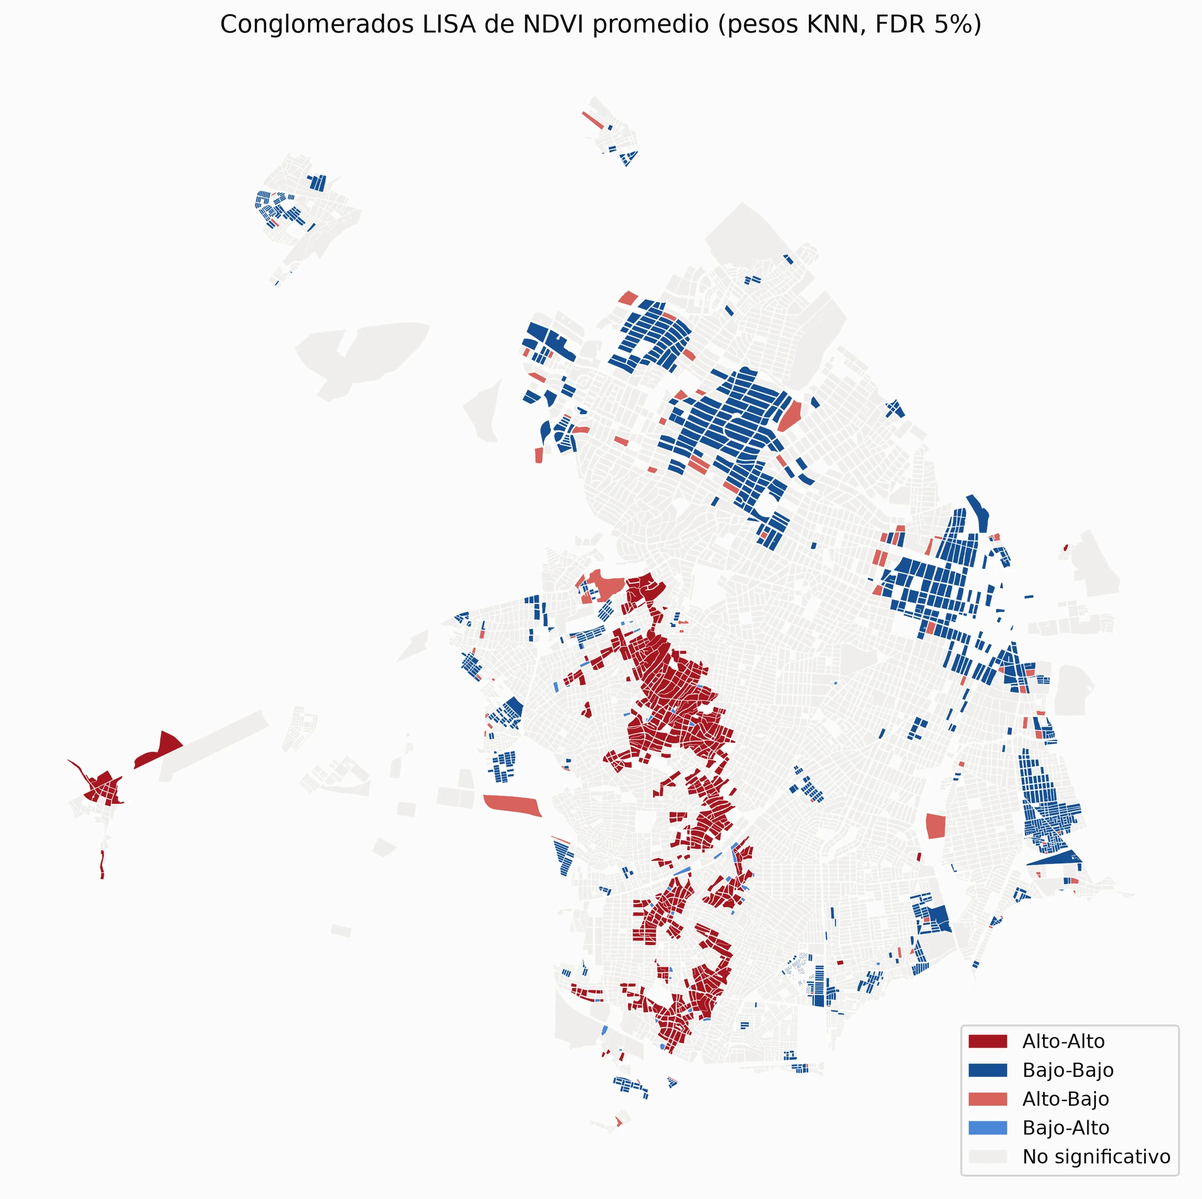
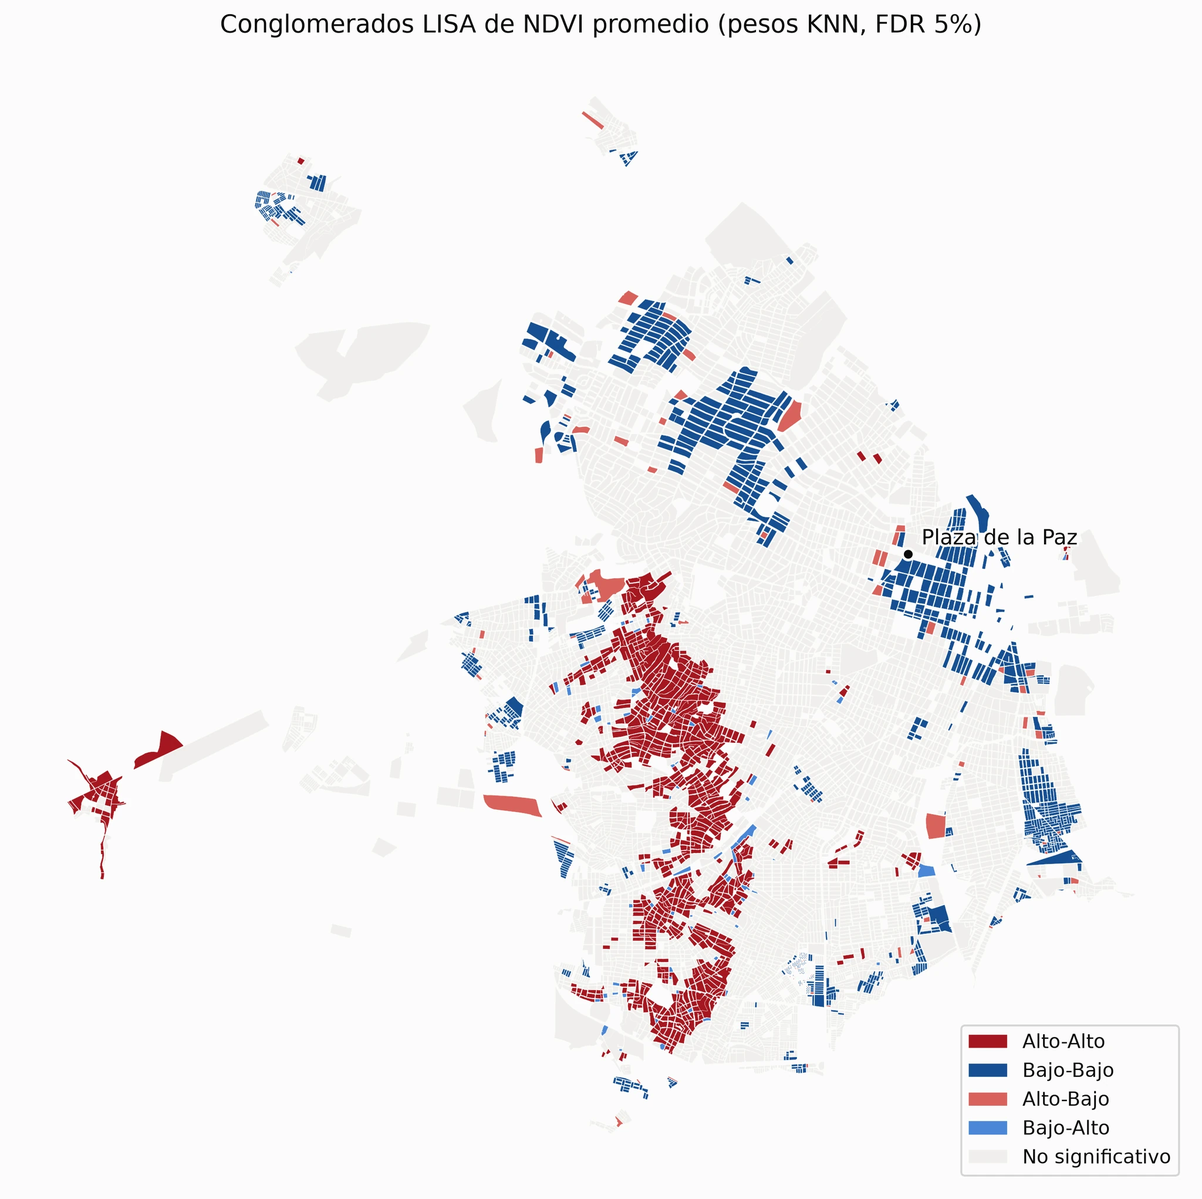
blog: barranquilla verde v2

diff --git a/content/blog/barranquilla-verde-desigualdad-2026.md b/content/blog/barranquilla-verde-desigualdad-2026.md
@@ -1,12 +1,12 @@
 ---
 title: "Barranquilla: el verde que ve el satélite no es el verde que se camina"
 date: 2026-10-06
-excerpt: "Medí la vegetación de las 7.761 manzanas de Barranquilla y la cruzé con el estrato socioeconómico. El satélite ve más verde donde vive la gente con menos recursos. Esa misma gente tiene menos verde a la mano. Este texto explica por qué las dos frases son ciertas a la vez."
+excerpt: "Medí la vegetación de las 7.761 manzanas de Barranquilla y la crucé con el estrato socioeconómico. El satélite ve más verde donde vive la gente con menos recursos. Esa misma gente tiene menos verde a la mano. Este texto explica por qué las dos frases son ciertas a la vez."
 tags: ["Barranquilla", "análisis espacial", "verde urbano", "datos abiertos"]
 author: "William Salas"
 ---
 
-Barranquilla es una ciudad verde. También es una ciudad desigual. Este trabajo mide las dos cosas al mismo tiempo, manzana por manzana, con imágenes satelitales y con las capas que publica la propia ciudad. El resultado es una contradicción. El satélite ve más verde donde vive la gente con menos recursos, pero esa gente tiene menos verde a la mano.
+Barranquilla es una ciudad verde y también es una ciudad desigual. Este trabajo mide las dos cosas a la vez, manzana por manzana, con imágenes de satélite y con los datos que publica la propia ciudad. Y encuentra una contradicción: el satélite ve más verde donde vive la gente con menos recursos, pero esa misma gente tiene menos verde a la mano.
 
 Las dos frases son ciertas. La diferencia está en qué cuenta como verde.
 
@@ -16,71 +16,73 @@ Las dos frases son ciertas. La diferencia está en qué cuenta como verde.
 
 ![Estrato socioeconómico y NDVI promedio por manzana, Barranquilla](/images/blog/barranquilla-verde-desigualdad-2026/01_estrato_y_ndvi.webp)
 
-El mapa de la izquierda ordena las 7.761 manzanas de la ciudad por estrato. El azul claro es el estrato 1. El azul oscuro es el estrato 6. El estrato 1 ocupa casi todo el sur y el occidente: son 3.480 manzanas y 476.550 personas, cerca del 43% de la población de la ciudad.
+El mapa de la izquierda ordena las 7.761 manzanas de la ciudad por estrato. El azul claro es el estrato 1 y el azul oscuro es el estrato 6. El estrato 1 ocupa casi todo el sur y el occidente: son 3.480 manzanas y 476.550 personas, cerca del 43% de la ciudad. El punto negro marca la Plaza de la Paz, para que pueda ubicarse.
 
-El mapa de la derecha mide la vegetación. El verde oscuro significa más vegetación.
+El mapa de la derecha mide la vegetación. Más verde oscuro significa más vegetación.
 
 Los dos mapas no coinciden. La manzana promedio del estrato 1 tiene un NDVI de 0.27. La del estrato 6 tiene 0.18. Cuanto más pobre la manzana, más verde la ve el satélite.
 
-Esa relación es débil, y no es nueva. Nuñez, Hoyos y Arellana (2023) compararon el NDVI entre grupos vulnerables y no vulnerables en Barranquilla, con otro sensor y la misma manzana censal. Encontraron diferencias marginales. Este trabajo llega al mismo punto y lo continúa.
+Esa relación es débil, y no es nueva. Nuñez, Hoyos y Arellana (2023) compararon el verde entre grupos vulnerables y no vulnerables en Barranquilla, con otro satélite y la misma manzana del censo. Encontraron diferencias mínimas. Este trabajo llega al mismo punto y sigue desde ahí.
 
-> **Fuente y método.** La vegetación sale de Sentinel-2 (colección `S2_SR_HARMONIZED`), en composición de mediana sobre las estaciones secas de diciembre a marzo de 2023 y 2024, a 10 metros de resolución. El NDVI es `(B8 - B4) / (B8 + B4)`; los píxeles con nube, sombra o agua se enmascaran con la banda SCL. El estrato por manzana es la capa oficial de estratificación (2018). Todo se mide en el sistema de coordenadas nacional EPSG:9377. De 7.799 manzanas se analizan 7.761; 38 se excluyen por agua o por falta de dato. La relación entre estrato y NDVI por manzana tiene un coeficiente de Spearman de −0.183 (p = 2.1 × 10⁻⁵⁹).
+> **Fuente y método.** El verde sale de imágenes Sentinel-2 de las estaciones secas de 2023 y 2024, a 10 metros por píxel. El NDVI es una medida estándar de vegetación: va de 0 a 1 y sube con la cantidad de plantas verdes. El estrato por manzana es la capa oficial de 2018. De 7.799 manzanas se analizan 7.761; 38 quedan fuera por agua o por falta de dato.
 
-## Dónde se concentra el verde?
+## ¿Dónde se concentra el verde?
 
 ![Conglomerados LISA de NDVI promedio](/images/blog/barranquilla-verde-desigualdad-2026/02_conglomerados_lisa.webp)
 
-El mapa anterior muestra un promedio. No muestra si el patrón es real o si es casualidad. Un análisis de autocorrelación espacial responde esa pregunta: busca manzanas que se parecen a sus vecinas.
+Un promedio no dice si el patrón es real o es casualidad. Este segundo mapa busca manzanas que se parecen a sus vecinas, y con eso responde la pregunta.
 
-El resultado es claro. Hay un núcleo rojo y continuo en el centro-sur de la ciudad. Son 700 manzanas con vegetación alta rodeadas de manzanas igual de verdes. El estrato promedio de ese núcleo es 1.02. Hay además 959 manzanas azules con vegetación baja, también agrupadas. Su estrato promedio es 2.09.
+El resultado es claro. Hay un núcleo rojo y continuo en el centro-sur: 700 manzanas verdes rodeadas de manzanas igual de verdes. El estrato promedio de ese núcleo es 1.02. También hay 959 manzanas azules de poca vegetación, igual de agrupadas, con estrato promedio 2.09.
 
 El verde alto se agrupa en los barrios más pobres. El verde bajo también. La ciudad no se parte en dos mitades limpias.
 
-> **Fuente y método.** Índice local de Moran (LISA) sobre el NDVI promedio por manzana, con 999 permutaciones. La contigüidad se calcula con 8 vecinos más cercanos y no por fronteras compartidas: las manzanas están separadas por el eje de la vía, así que el 97% no comparte borde con ninguna otra. Los valores p se corrigen por FDR al 5%. Alto-Alto significa una manzana verde entre vecinas verdes; Bajo-Bajo, lo contrario. El cruce completo de conglomerado contra estrato está en `lisa_cluster_by_stratum.csv`.
+> **Fuente y método.** Es un índice de Moran local (LISA): mide si una manzana se parece a las que la rodean, con 999 simulaciones para descartar la casualidad. Rojo = verde alto entre vecinos verdes; azul = lo contrario. La tabla completa por estrato está en `lisa_cluster_by_stratum.csv`.
 
-## Baldíos o parques?
+## ¿Baldíos o parques?
 
 ![Suelo vegetado sin construir, por píxel de 10 m](/images/blog/barranquilla-verde-desigualdad-2026/03_verde_baldio.webp)
 
-Un píxel verde no dice quién puede usar ese verde. El satélite mide vegetación. No distingue un parque de un lote vacío con maleza.
+Un píxel verde no dice quién puede usar ese verde. El satélite mide vegetación, y no distingue un parque de un lote vacío con maleza.
 
 Para separarlos usé la cobertura del suelo:
 
-- **Vegetado y sin construir.** Lotes vacíos, patios, orillas de arroyo. Verde desde la órbita, pero no es un lugar al que uno vaya.
+- **Vegetado y sin construir.** Lotes vacíos, patios, orillas de arroyo. Verde desde arriba, pero no es un lugar a donde uno vaya.
 - **Espacio público.** Parques, plazas y canchas.
-- **Agua y humedal.** También verde desde la órbita. No es verde urbano.
+- **Agua y humedal.** También verde desde arriba. No es verde urbano.
 
-El mapa de arriba colorea solo el suelo vegetado y sin construir, píxel por píxel. El color no es la manzana: es el baldío. Estrato 1 tiene 4.9% de su área en esa categoría. Estrato 2 tiene 0.85%. Ese es el verde espontáneo, y se concentra en el sur.
+Este mapa colorea solo el suelo vegetado y sin construir, píxel por píxel. El color no marca la manzana: marca el baldío. El estrato 1 tiene el 4.9% de su área en esa categoría; el estrato 2, el 0.85%. Ese es el verde espontáneo, y se concentra en el sur.
 
-> **Fuente y método.** La cobertura del suelo es ESA WorldCover v200 (10 m, 2021). Cuentan como vegetado y sin construir las clases 10, 20, 30 y 40: árboles, arbustos, pastos y cultivos. El NDVI de la figura se calcula solo sobre esos píxeles, y solo dentro de manzanas del estudio. El raster cubre un rectángulo, y el rectángulo alrededor de Barranquilla incluye la Ciénaga, el río y el occidente rural: sin ese recorte, el 90% de los píxeles verdes del rectángulo están fuera del área de estudio.
+Un estudio reciente de la Universidad del Norte llega a la misma idea desde otro ángulo. Rastreó una rana invasora por toda la ciudad y encontró que solo vive en los estratos 4, 5 y 6, donde hay zonas verdes cuidadas. El verde que mide el satélite no explicaba dónde estaba la rana. El cuidado del espacio, sí.
+
+> **Fuente y método.** La cobertura del suelo es ESA WorldCover (2021, 10 m). Cuenta como vegetado lo que el satélite clasifica como árboles, arbustos, pastos y cultivos. El mapa recorta al área de estudio: sin ese recorte, el río y la Ciénaga aparecerían como "verde".
 
 ![Suelo vegetado sin construir dentro del tejido urbano construido](/images/blog/barranquilla-verde-desigualdad-2026/04_verde_baldio_urbano.webp)
 
-El mapa anterior usa todo el territorio municipal. Ese territorio incluye la Ciénaga, el río y el occidente rural. La ciudad donde vive la gente es más pequeña.
+El mapa anterior usa todo el territorio del municipio, que incluye la Ciénaga, el río y el occidente rural. La ciudad donde vive la gente es más pequeña.
 
-El segundo mapa limita el dibujo al tejido urbano continuo. El gris queda fuera. El resultado cambia de forma: casi todo el verde espontáneo aparece en manzanas pequeñas y dispersas del sur, no en grandes extensiones. Además, 44% de ese suelo está en solo 31 manzanas mayores de 5 hectáreas. No es un jardín. Es una franja periurbana.
+Este segundo mapa se limita a la ciudad construida. El gris queda fuera. El resultado cambia: casi todo el verde espontáneo aparece en manzanas pequeñas y dispersas del sur, no en grandes extensiones. Además, el 44% de ese suelo está en solo 31 manzanas de más de 5 hectáreas. No es un jardín. Es una franja de las afueras.
 
-> **Fuente y método.** El tejido urbano continuo se obtiene al unir todas las manzanas con un margen de 60 metros y quedarse con el componente conectado más grande. Así se descartan los fragmentos sueltos que arrastra el límite municipal. El umbral de 5 hectáreas está escrito en la figura porque el resultado depende de él: una manzana más grande que eso es borde o industria, no una manzana de ciudad.
+> **Fuente y método.** "Ciudad construida" es la mancha urbana continua, sin los fragmentos sueltos que arrastra el límite del municipio. El corte de 5 hectáreas está en la figura porque el resultado depende de él: una manzana más grande es borde o industria, no una manzana de ciudad.
 
 ## La distancia que sí importa
 
 ![Manzanas que llegan a verde plantado en 5 minutos a pie](/images/blog/barranquilla-verde-desigualdad-2026/05_caminata_verde.webp)
 
-Un círculo de 400 metros en el mapa no es un paseo. Las personas caminan por calles, y las calles dan rodeos.
+Un círculo de 400 metros en un mapa no es un paseo. La gente camina por calles, y las calles dan vueltas.
 
-La diferencia es enorme. Si medimos con círculos, 89% de las manzanas del estrato 1 quedan "cubiertas" por algún espacio público. Si medimos caminando de verdad por la red de calles, solo 26% de esas manzanas llegan a verde plantado en 5 minutos. En el estrato 6 la cifra es 84%.
+La diferencia es enorme. Medida con círculos, el 89% de las manzanas del estrato 1 quedan "cubiertas" por algún espacio público. Medida caminando de verdad por las calles, solo el 26% llegan a verde plantado en 5 minutos. En el estrato 6 la cifra es 84%.
 
-En toda la ciudad, 48% de las manzanas llegan a verde plantado en 5 minutos a pie. El estrato 1 es la excepción: los demás estratos están entre 56% y 84%.
+En toda la ciudad, el 48% de las manzanas llegan a verde plantado en 5 minutos a pie. El estrato 1 es la excepción: los demás están entre el 56% y el 84%.
 
-> **Fuente y método.** El tiempo de viaje sale de la red de calles de OpenStreetMap, construida con OSMnx. Se modela una caminata a 4.8 km/h. "Verde plantado" es un espacio público oficial cuya vegetación supera un NDVI de 0.30 en su interior: de 370 espacios registrados, 262 son verdes y 108 son plazas duras. La comparación es entre la distancia euclidiana de 400 m y el tiempo real por la red. Las 160 manzanas que son ellas mismas el espacio público se dibujan con contorno negro y se excluyen del porcentaje, porque una caminata de cero minutos a un parque donde ya estás no es acceso.
+> **Fuente y método.** El tiempo de caminata sale de las calles de OpenStreetMap, a 4.8 km/h. "Verde plantado" es un espacio público oficial con vegetación de verdad: de 370 espacios, 262 son verdes y 108 son plazas duras. Las 160 manzanas que ya son el espacio público se marcan aparte, porque estar parado en un parque no es tener acceso a uno.
 
 ## El verde de la persona promedio
 
 ![Verdor ponderado de tres formas, y cobertura del suelo no construido](/images/blog/barranquilla-verde-desigualdad-2026/06_verde_por_persona.webp)
 
-Los promedios por manzana pesan igual una manzana con 30 habitantes que una con 3.000. Para saber qué verde tiene la persona promedio, hay que pesar por población.
+Los promedios por manzana tratan igual a una manzana de 30 habitantes y a una de 3.000. Para saber qué verde tiene la persona promedio, hay que pesar por población.
 
-El resultado mantiene la contradicción. La persona promedio del estrato 1 vive en una manzana con NDVI 0.28. La del estrato 6, con 0.16. Otra vez: más verde alrededor en los estratos bajos.
+El resultado mantiene la contradicción. La persona promedio del estrato 1 vive en una manzana con NDVI 0.28; la del estrato 6, con 0.16. Otra vez: más verde alrededor en los estratos bajos.
 
 Pero el verde alrededor no es espacio público. El espacio público efectivo por habitante cuenta otra historia:
 
@@ -95,62 +97,61 @@ Pero el verde alrededor no es espacio público. El espacio público efectivo por
 
 El corte está entre los estratos 3 y 4. Una persona del estrato 4 tiene casi 9 veces más espacio público que una del estrato 1.
 
-> **Fuente y método.** La población por manzana es el censo de 2018 de la ciudad, con estimación modelada de WorldPop donde el censo no llega. El NDVI ponderado por población reparte el valor de cada manzana entre sus habitantes: la manzana con 3.000 personas pesa cien veces más que la de 30. El panel derecho muestra la proporción del área de cada estrato que es suelo vegetado y sin construir, agua o suelo desnudo. Lo construido se omite porque es cerca del 97% de todos los estratos y aplastaría las tres barras.
+> **Fuente y método.** La población por manzana es el censo de 2018, con estimación de WorldPop donde el censo no llega. Pesar por población significa que la manzana de 3.000 personas cuenta cien veces más que la de 30.
 
 ## Los niños
 
 ![Residentes menores de diez años y acceso a verde plantado, por estrato](/images/blog/barranquilla-verde-desigualdad-2026/07_ninos_y_verde.webp)
 
-Los menores de diez años son el 17.4% de la población del estrato 1 y el 9.3% del estrato 6. Viven donde está el verde del satélite y donde no está el verde usable.
+Los menores de diez años son el 17.4% de la población del estrato 1 y el 9.3% del estrato 6. Viven donde está el verde del satélite y donde no está el verde que se puede usar.
 
-El espacio público por niño es 1.55 m² en el estrato 1 y 26.08 m² en el estrato 4. Es una diferencia de casi 17 veces. Es mayor que la diferencia por habitante porque los estratos bajos tienen más niños por residente **y** menos espacio por residente.
+El espacio público por niño es de 1.55 m² en el estrato 1 y de 26.08 m² en el estrato 4: casi 17 veces más. La diferencia es mayor que la de por habitante porque los estratos bajos tienen más niños por persona **y** menos espacio por persona.
 
-Los niños también caminan peor. De todos los niños de la ciudad, 45.9% llegan a verde plantado en 5 minutos a pie. Entre las manzanas, la cifra general es 49.7%.
+Los niños también caminan peor. De todos los niños de la ciudad, el 45.9% llegan a verde plantado en 5 minutos a pie.
 
-> **Fuente y método.** La proporción de menores de diez años sale de la banda de edad 0 a 9 del censo de 2018, dividida entre la población total de cada manzana. Se calcula manzana por manzana y luego se agrega por estrato, para que una manzana de 30 personas no pese lo mismo que una de 3.000. La proporción de niños crece hacia el sur de la ciudad (Spearman −0.29 contra la coordenada norte) y el estrato crece hacia el norte (+0.40). El porcentaje de acceso de los niños pondera cada manzana por su población infantil, no por su área; los 49.7% del texto son el promedio por manzana y por eso no son exactamente comparables.
+> **Fuente y método.** La proporción de menores de diez años sale del censo de 2018 (edades de 0 a 9). Se calcula manzana por manzana y luego se suma por estrato, para que una manzana pequeña no pese lo mismo que una grande. Los niños se concentran en el sur de la ciudad; el estrato, en el norte.
 
 ## Los arroyos: la decisión de la ciudad
 
 ![Red de arroyos sobre el estrato que atraviesa](/images/blog/barranquilla-verde-desigualdad-2026/08_arroyos.webp)
 
-Un arroyo no es un río. Es un canal de aguas de lluvia. Cuando no está canalizado, el agua corre por la calle cuando llueve. Ese es el riesgo, y se puede ver.
+Un arroyo no es un río. Es un canal de agua de lluvia. Cuando no está canalizado, el agua corre por la calle cuando llueve. Ese es el riesgo, y se puede ver en el mapa.
 
-El mapa muestra la red de arroyos sobre el estrato que atraviesa. El rojo es un canal abierto. El negro es un canal cubierto o canalizado.
+El rojo es un canal abierto. El negro es un canal cubierto o canalizado. El resultado es el más contundente de este trabajo:
 
-El resultado es el más contundente de este trabajo:
+- El 90% del arroyo abierto de la ciudad pasa por el estrato 1. Son 56 de los 62 km.
+- El estrato 1 concentra el 54% de toda la red, esté abierta o no.
+- La proporción de canales ya atendidos sube con el estrato: 62% en el 1, 85% en el 2, 99% en el 3, y 100% en los estratos 4, 5 y 6.
 
-- 90% del arroyo abierto de la ciudad pasa por el estrato 1. Son 56 de los 62 km.
-- El estrato 1 concentra 54% de toda la red, esté abierta o no.
-- La proporción de canales atendidos sube con el estrato: 62% en el estrato 1, 85% en el 2, 99% en el 3, y 100% en los estratos 4, 5 y 6.
+La ciudad ha resuelto el riesgo donde está el dinero. También hay obra en curso: 4.34 km en el estrato 1 y 0.20 km en el estrato 2. En el resto, nada.
 
-La ciudad ha resuelto el riesgo donde está el dinero. También hay obra en curso: 4.34 km en ejecución en el estrato 1 y 0.20 km en el estrato 2. En el resto, ninguna.
-
-> **Fuente y método.** La red y su estado son el levantamiento de arroyos de la ciudad, con el campo `estado` de cada canal. Cuentan como atendidos los estados `Canalizado_abierto`, `Canalizado_cerrado`, `Canalizado_natural` y `Viacanal`; `No_canalizado` no lo está. Los kilómetros se atribuyen a la manzana que el canal atraviesa. Esta es la única capa del trabajo que mide una **decisión** de la ciudad y no una condición del terreno.
+> **Fuente y método.** La red y su estado son el levantamiento de arroyos de la ciudad. Cuentan como atendidos los canales cubiertos o canalizados. Esta es la única capa del trabajo que mide una **decisión** de la ciudad y no una condición del terreno.
 
 ## Limitaciones
 
 Estos datos tienen límites. Los enumero porque un mapa sin límites declarados invita a leerlo de más.
 
-- **El espacio público solo cuenta lo registrado.** La capa de espacio público efectivo no incluye patios privados, antejardines ni lotes cerrados, aunque sean verdes y aunque la gente los use.
-- **La comparación por estrato tiene seis puntos.** Las diferencias entre estratos son descriptivas. No son una prueba de causa.
-- **No hay datos de inundaciones.** La idea de que el efecto de un arroyo abierto es peor en los estratos bajos es razonable. No la puedo probar con estas capas, porque no hay registro de daños ni de inundaciones.
-- **La capa de arroyos no tiene fechas.** El estado actual muestra dónde está el riesgo hoy. No muestra en qué orden la ciudad hizo las obras, así que no puedo afirmar quién fue atendido primero.
-- **Las capas son de años distintos.** El estrato y el censo son de 2018, el NDVI de 2023 y 2024, y el inventario de árboles de 2017.
-- **El verde bajo no es solo de barrios ricos.** Los 959 bloques de vegetación baja tienen estrato promedio 2.09. La falta de verde también existe dentro de los barrios pobres.
+- **El espacio público solo cuenta lo registrado.** La capa oficial no incluye patios privados, antejardines ni lotes cerrados, aunque sean verdes y la gente los use.
+- **La comparación por estrato tiene seis puntos.** Las diferencias entre estratos son descriptivas. No prueban causa.
+- **No hay datos de inundaciones.** Que el efecto de un arroyo abierto sea peor en los estratos bajos es razonable, pero no lo puedo probar: no hay registro de daños.
+- **La capa de arroyos no tiene fechas.** Muestra dónde está el riesgo hoy, no en qué orden la ciudad hizo las obras. No puedo afirmar a quién atendió primero.
+- **Las capas son de años distintos.** El estrato y el censo son de 2018; el verde, de 2023 y 2024.
+- **El verde bajo no es solo de barrios ricos.** Las 959 manzanas de poca vegetación tienen estrato promedio 2.09. La falta de verde también existe dentro de los barrios pobres.
 
 ## Conclusión
 
 La contradicción del principio se sostiene, y ahora sé por qué.
 
-El satélite ve más vegetación en los barrios pobres de Barranquilla. Esa vegetación es, en buena parte, suelo sin construir: lotes vacíos, patios, orillas. Cuenta como verde desde la órbita y no es un lugar donde un niño juegue.
+El satélite ve más vegetación en los barrios pobres de Barranquilla. Esa vegetación es, en buena parte, suelo sin construir: lotes vacíos, patios, orillas. Cuenta como verde desde arriba y no es un lugar donde un niño juegue.
 
-Cuando se mide lo que sí se puede usar, el orden se invierte. El espacio público efectivo por habitante, el acceso caminando y el verde plantado a cinco minutos favorecen a los estratos altos. El estrato 1 queda solo en el último lugar en los tres, y en los arroyos abiertos queda muy por encima del resto.
+Cuando se mide lo que sí se puede usar, el orden se invierte. El espacio público por habitante, el acceso caminando y el verde plantado a cinco minutos favorecen a los estratos altos. El estrato 1 queda último en los tres, y en los arroyos abiertos queda muy por encima del resto.
 
 El mapa no mide el color de la ciudad. Mide quién puede usarla.
 
 ## Fuentes
 
 - **Nuñez, Hoyos y Arellana (2023).** «High land surface temperatures (LSTs) disproportionately affect vulnerable socioeconomic groups in Barranquilla, Colombia», *Urban Climate* 52: 101757. Antecedente directo de este trabajo: misma ciudad, misma manzana censal y la misma pregunta al revés, desde el calor en lugar del verde. Su área de estudio es la conurbación Barranquilla–Soledad; la de este trabajo es Barranquilla sola. [Artículo en Elsevier](https://doi.org/10.1016/j.uclim.2023.101757)
+- **Bustamante-Narváez et al. (2026).** «Socioeconomic Barriers Shape the Urban Distribution of an Invasive Frog: A Case Study from Barranquilla, Colombia», *Research Square* (preprint). Universidad del Norte. Confirma desde la ecología lo que este trabajo encuentra desde el satélite: el NDVI no distingue el verde cuidado del verde cualquiera. [Preprint](https://doi.org/10.21203/rs.3.rs-9476737/v1)
 - **Sentinel-2 L2A** (`COPERNICUS/S2_SR_HARMONIZED`) — composición de mediana de las estaciones secas 2023–2024, 10 m de resolución. De aquí sale el NDVI de todas las figuras. [Catálogo de Google Earth Engine](https://developers.google.com/earth-engine/datasets/catalog/COPERNICUS_S2_SR_HARMONIZED)
 - **ESA WorldCover v200** — cobertura del suelo a 10 m, versión de 2021. Separa el verde construido del verde espontáneo (figuras 3 y 4) y el agua del suelo desnudo. [esa-worldcover.org](https://esa-worldcover.org/en)
 - **WorldPop** — estimación modelada de población donde el censo de 2018 no llega. [worldpop.org](https://www.worldpop.org/)
